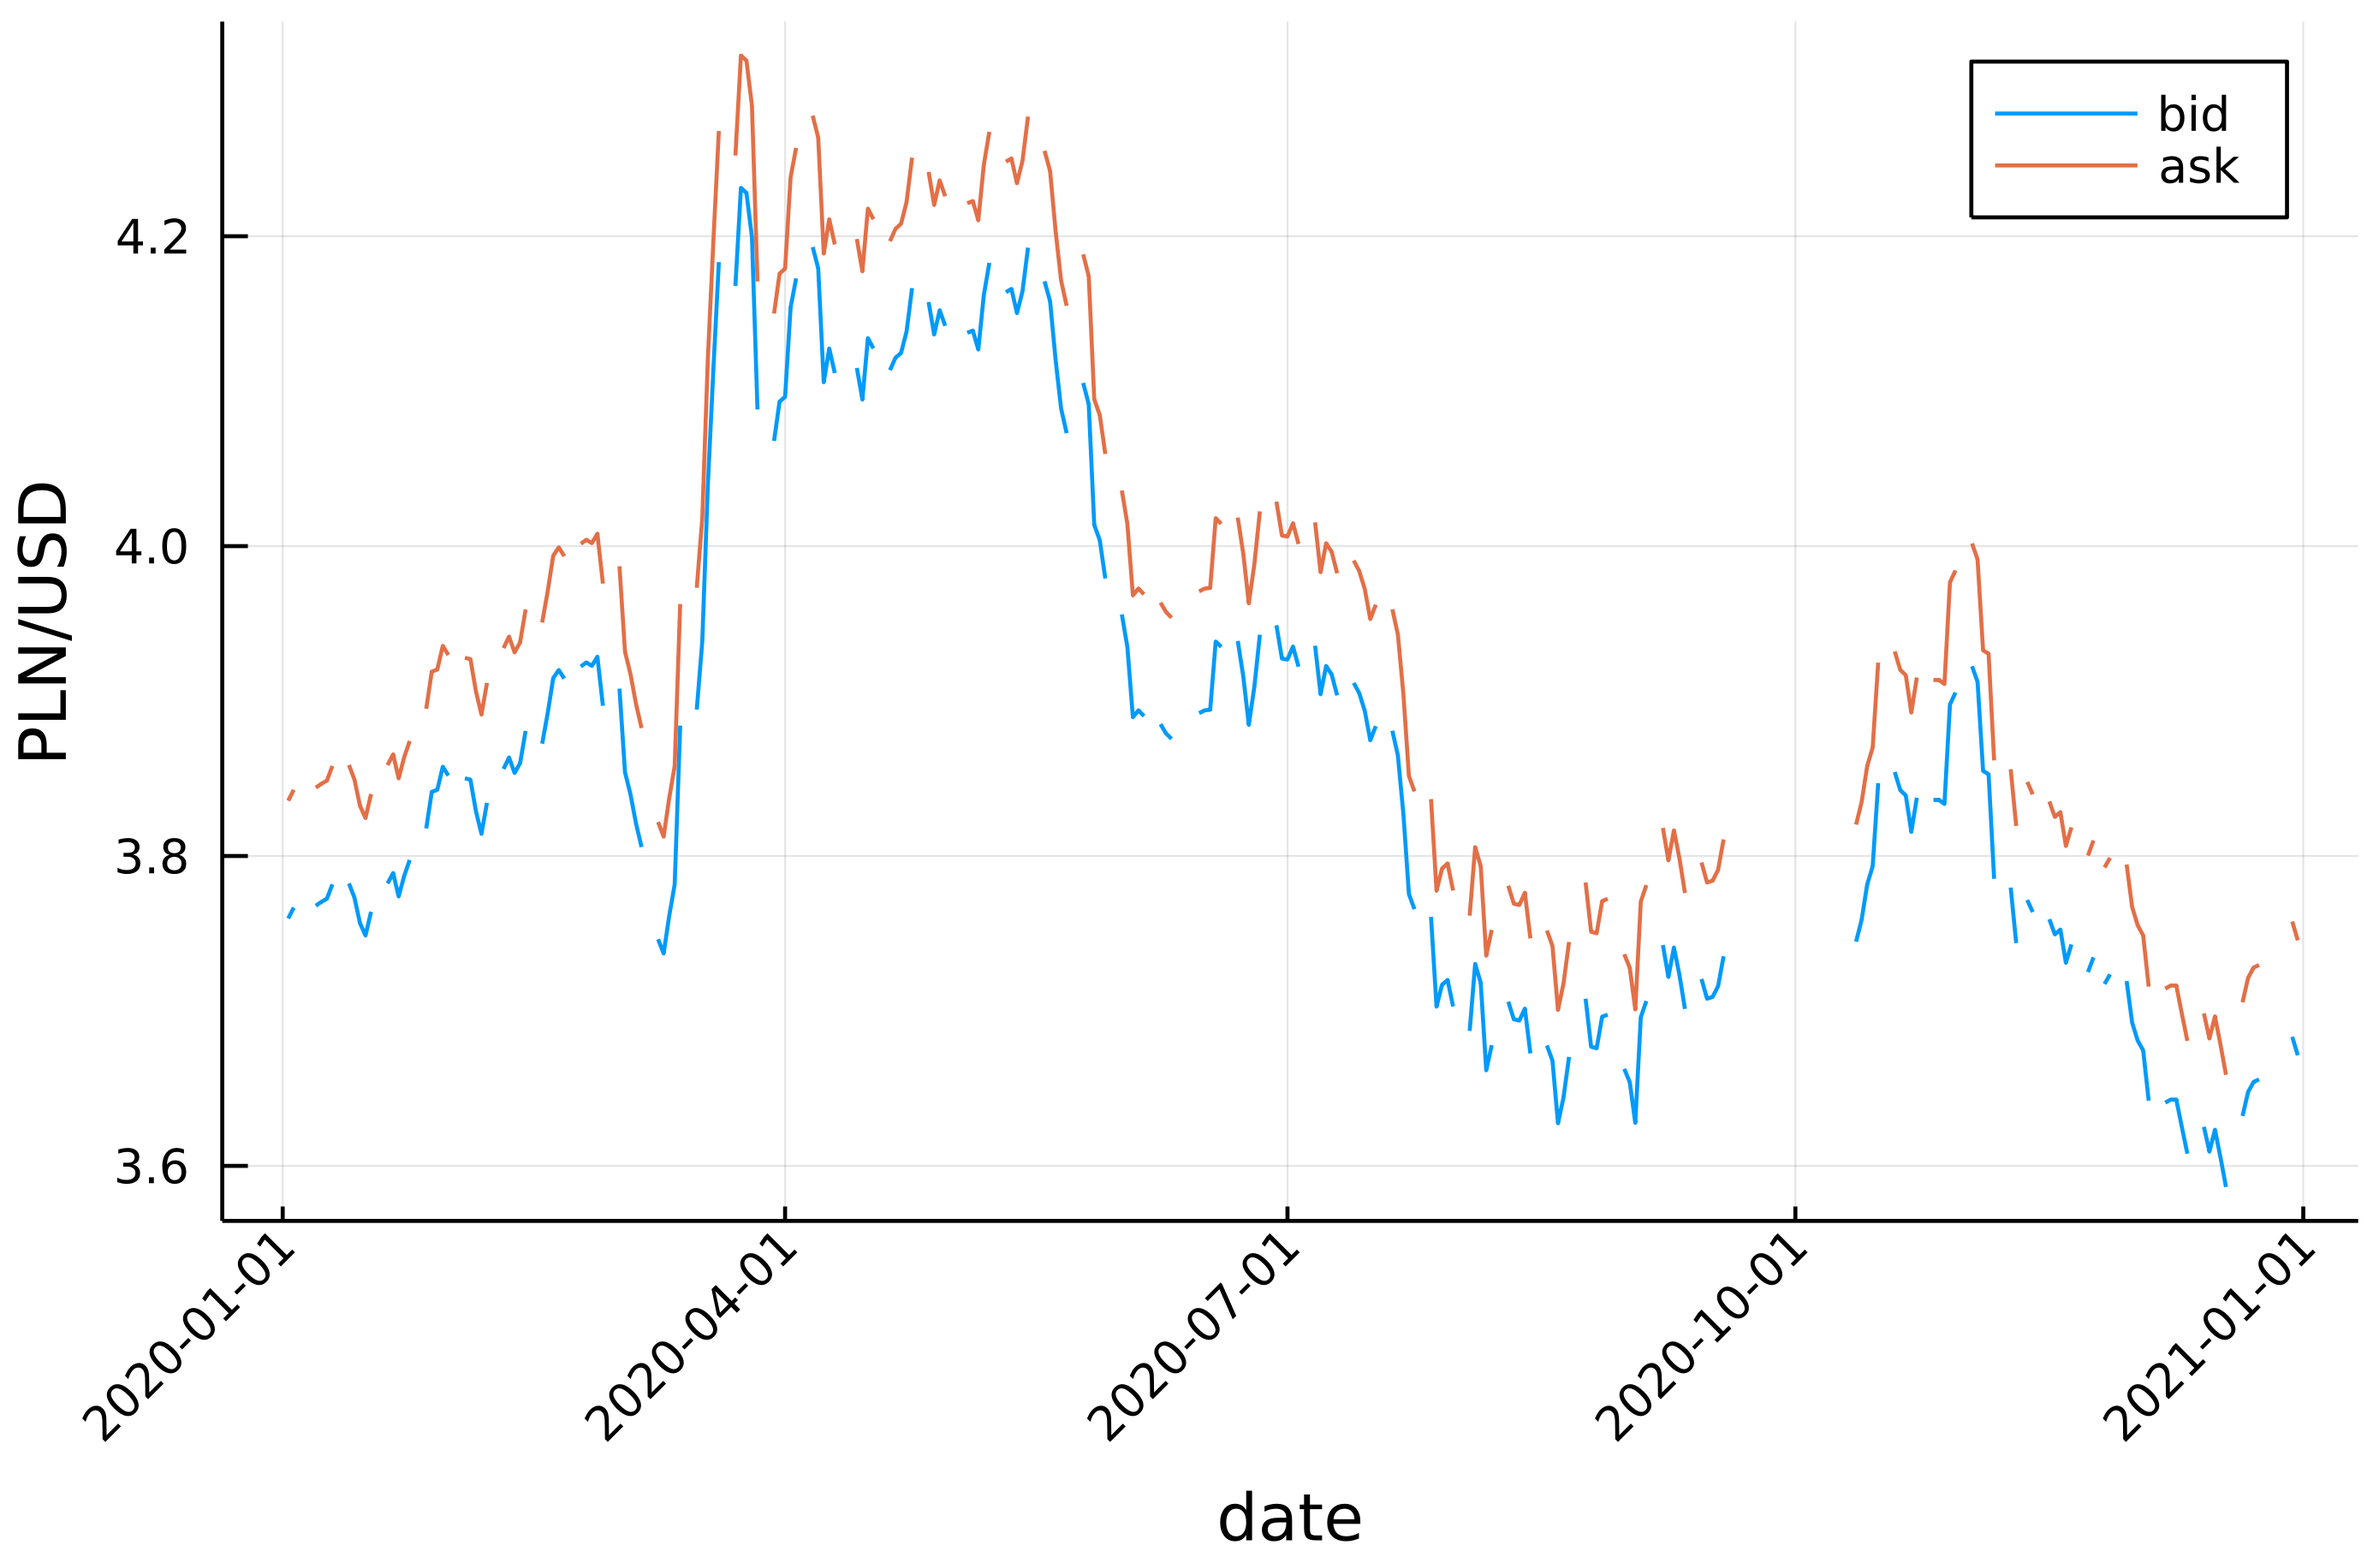
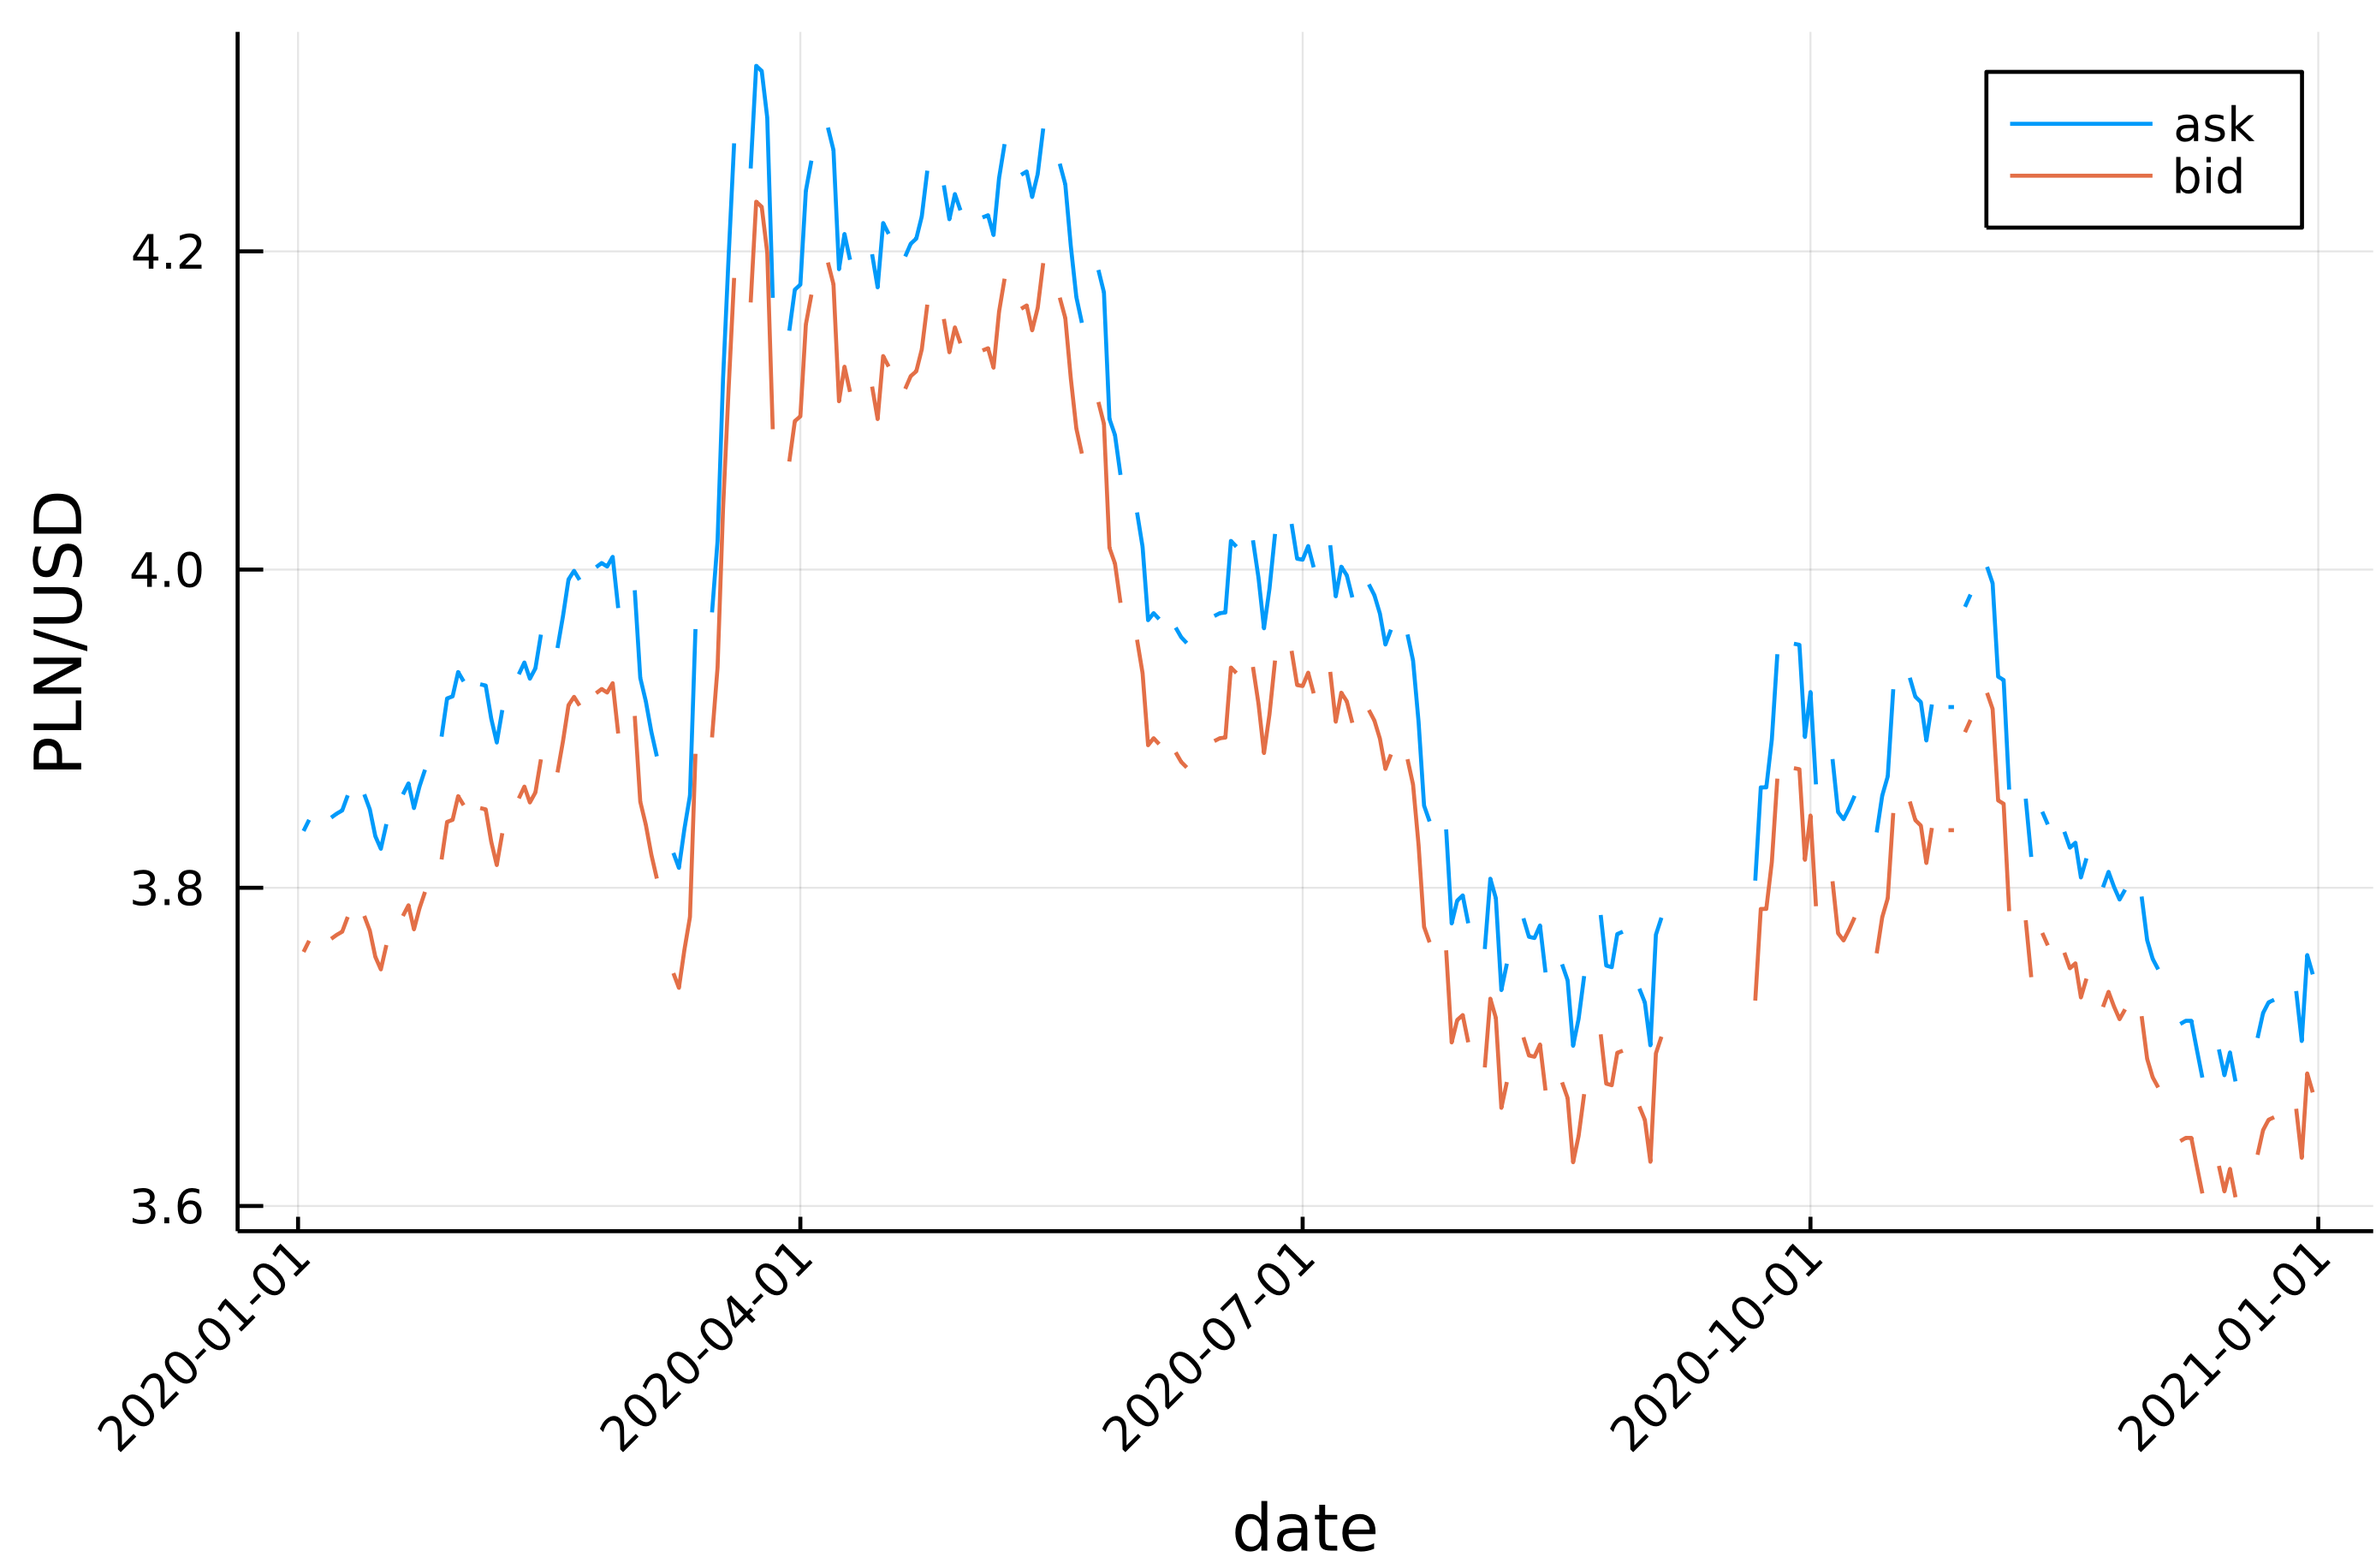
reorder bid and ask in plot

diff --git a/_posts/2020-07-23-getdata.md b/_posts/2020-07-23-getdata.md
@@ -222,8 +222,8 @@ values while other contain `Float64` values.
 We are ready to produce the plot we wanted:
 ```
 julia> using Plots
-julia> plot(usd_pln.date, [usd_pln.bid usd_pln.ask], label=["bid" "ask"],
-            xlabel="date", ylabel="PLN/USD", xrotation=45);
+julia> plot(usd_pln.date, [usd_pln.ask usd_pln.bid], label=["ask" "bid"],
+            xlabel="date", ylabel="PLN/USD", xrotation=45)
 ```
 
 And here is the plot:
